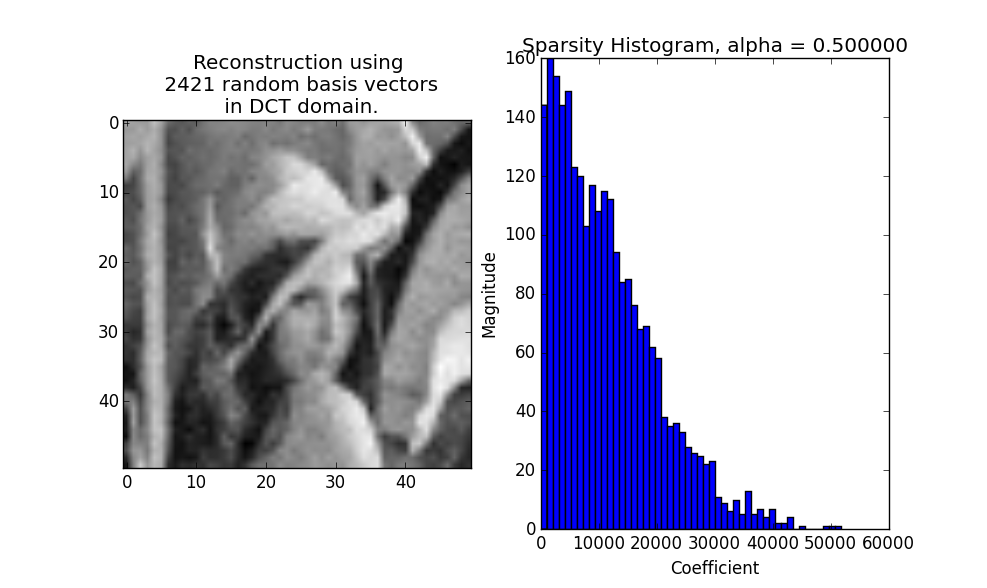
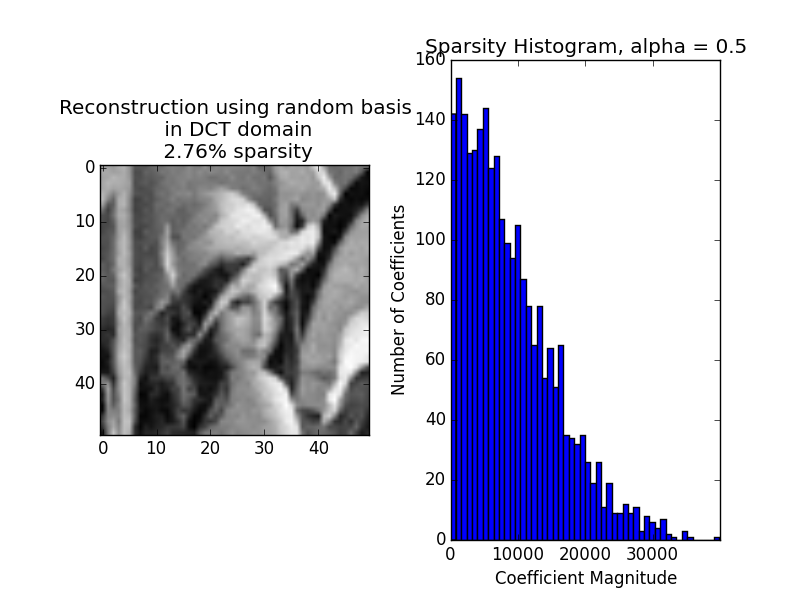
final figures for midterm report

Changed region(s): [[0.0625, 0.0612, 0.9375, 0.9796], [0.0938, 0.4286, 0.125, 0.4898]]

diff --git a/src/python/Sketching.py b/src/python/Sketching.py
@@ -194,7 +194,7 @@ def basisCompressedSenseDCTL1(img, alpha, basis_oversampling=1.0):
     img_measured = mixing_matrix * img_vector
 
     # Construct the problem.
-    coefficients = cvx.Variable(mixing_matrix.shape[1])
+    coefficients = cvx.Variable(len(img_vector))
     L2 = cvx.sum_squares(img_premultiplied*coefficients - img_measured)
     L1 = cvx.norm(coefficients, 1)
     objective = cvx.Minimize(L2 + alpha*L1)
@@ -208,3 +208,44 @@ def basisCompressedSenseDCTL1(img, alpha, basis_oversampling=1.0):
     print "Problem status: " + str(problem.status)
     
     return dct_basis, coefficients.value
+
+
+def basisCompressedSenseImgL1(img, alpha, basis_oversampling=1.0):
+    """
+    Sketch the image in the image domain. Procedure: 
+    1. Choose a random matrix to mix the DCT components.
+    2. Solve the L1-penalized least-squares problem to obtain the representation.
+    
+    min_x ||Ax - m||_2^2 + alpha * ||x||_1, where y = image, 
+                                                   x = representation, 
+                                                   A = mixing matrix,
+                                                   F = DCT basis (not applicable)
+                                                   m = Ay
+    """
+
+    # Unravel this image into a single column vector.
+    img_vector = np.asmatrix(img.ravel()).T
+    
+    # Generate a random mixing matrix.
+    mixing_matrix = np.random.randn(int(len(img_vector) * basis_oversampling),
+        len(img_vector))
+
+
+    # Determine m (samples)
+    img_measured = mixing_matrix * img_vector
+
+    # Construct the problem.
+    coefficients = cvx.Variable(len(img_vector))
+    L2 = cvx.sum_squares(mixing_matrix*coefficients - img_measured)
+    L1 = cvx.norm(coefficients, 1)
+    objective = cvx.Minimize(L2 + alpha*L1)
+    constraints = []
+    problem = cvx.Problem(objective, constraints)
+
+    # Solve.
+    problem.solve(verbose=True, solver='SCS')
+
+    # Print problem status.
+    print "Problem status: " + str(problem.status)
+    
+    return np.identity(len(img_vector)), coefficients.value

diff --git a/src/python/test_compSense_img_2D.py b/src/python/test_compSense_img_2D.py
@@ -1,5 +1,5 @@
 """
-Test script. Run compressed sensing on a 2D image in Fourier domain and see what we get.
+Test script. Run compressed sensing on a 2D image in image domain and see what we get.
 """
 
 import numpy as np
@@ -12,34 +12,35 @@ import Sketching as sketch
 IMAGE_PATH = "../../data/"
 IMAGE_NAME = "lenna.png"
 SIZE = (50, 50)
-ALPHA = 2
-BASIS_OVERSAMPLING = 1
+ALPHA = 1
+BASIS_OVERSAMPLING = 0.7
 
 # Import the image.
 img = misc.imresize(bf.rgb2gray(bf.imread(IMAGE_PATH + IMAGE_NAME)), SIZE).astype(np.float32)
 
 # Obtain Fourier basis.
-basis, coefficients = sketch.basisSketchDCTL1(img, ALPHA, BASIS_OVERSAMPLING)
+basis, coefficients = sketch.basisCompressedSenseImgL1(img, ALPHA, BASIS_OVERSAMPLING)
 
 # Compute reconstruction.
 reconstruction = (basis * coefficients).reshape(img.shape)
     
+# print estimate of sparsity
+print np.median(np.asarray(coefficients.T))
+
 # Plot.
 max_value = np.absolute(coefficients).max()
 plt.figure(1)
 plt.subplot(121)
 plt.imshow(reconstruction, cmap="gray")
+plt.title("Reconstruction using image basis \n %.2f%% sparsity" %
+           (100.0-((np.absolute(coefficients) > 0.01*max_value).sum()*100.0/(SIZE[0]*SIZE[1]))))
 
-plt.title("Reconstruction using random basis \n in DCT domain \n %.2f%% sparsity" %
-           (100.0-((np.absolute(coefficients) > 0.01 * max_value).sum()*100.0/(SIZE[0]*SIZE[1]))))
 
-
-ax = plt.subplot(122)
+plt.subplot(122)
 plt.hist(np.absolute(coefficients), bins=len(coefficients) / 50)
-start, end = ax.get_xlim()
-ax.xaxis.set_ticks(np.arange(start, end, end/4))
+plt.title("Sparsity Histogram, alpha = %1.1f" %ALPHA)
 plt.xlabel("Coefficient Magnitude")
 plt.ylabel("Number of Coefficients")
-plt.title("Sparsity Histogram, alpha = %.1f" %ALPHA)
 plt.show()
+
 
